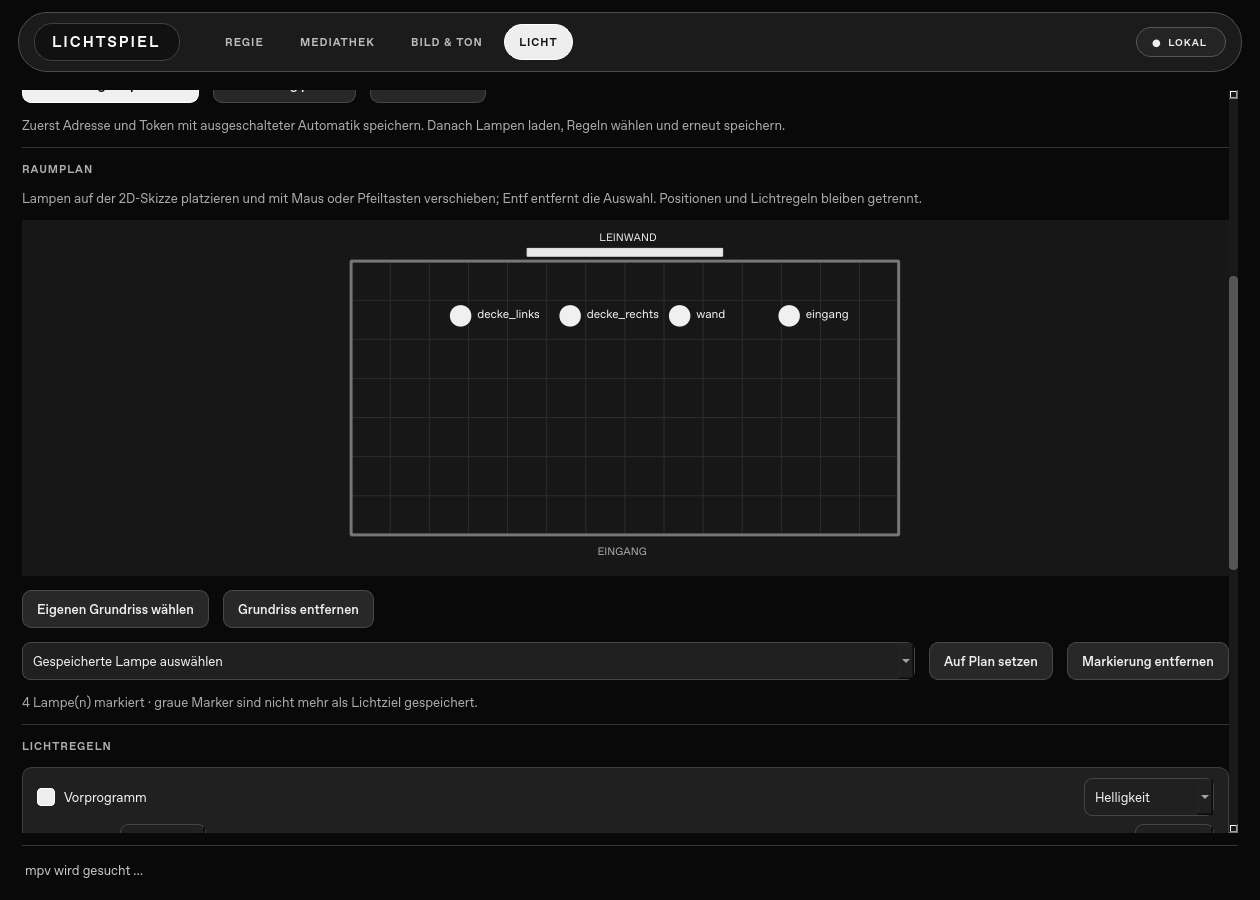
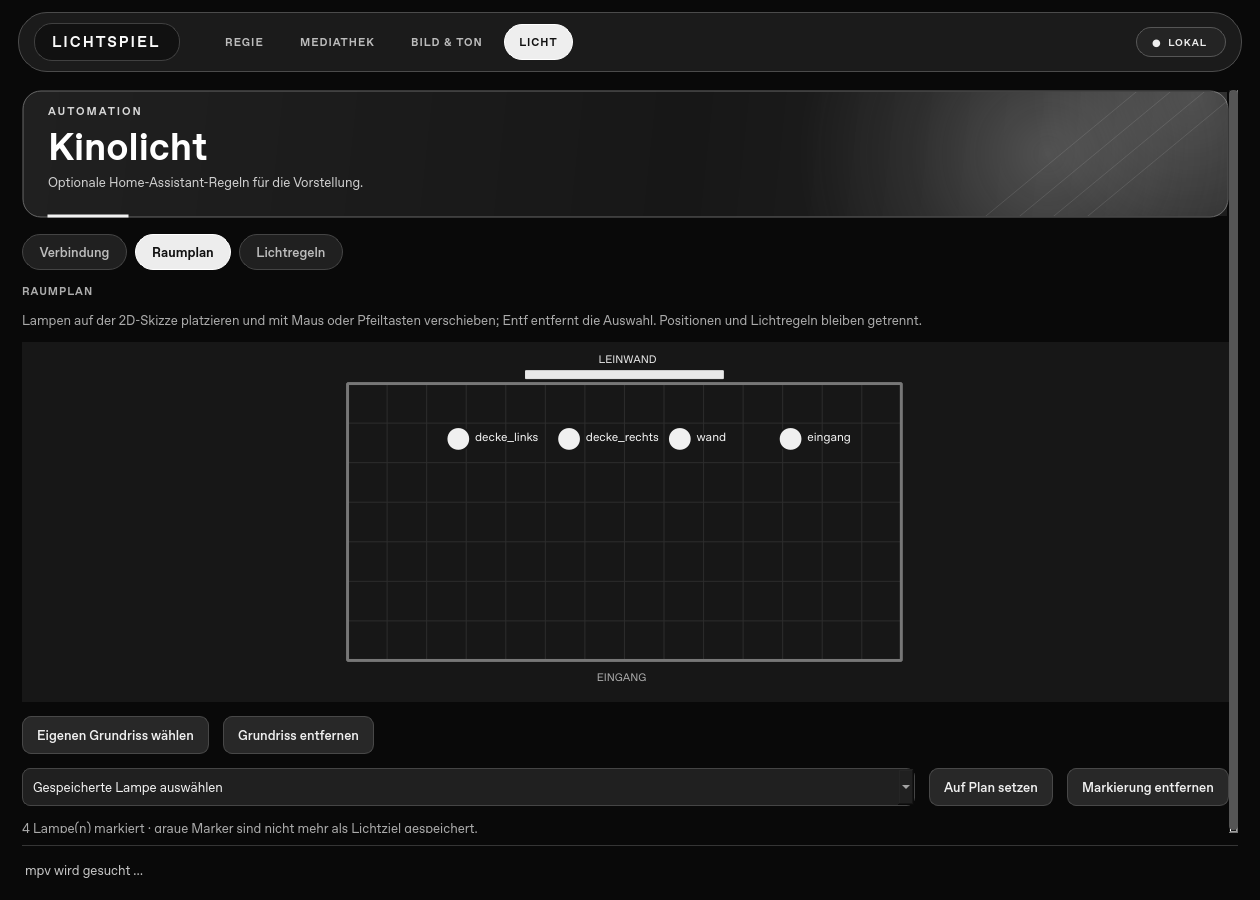
Organize light controls and compact small-window layout

diff --git a/native/lichtspiel/window.py b/native/lichtspiel/window.py
@@ -253,6 +253,7 @@ class MainWindow(QMainWindow):
         main.setContentsMargins(22, 18, 22, 18)
         main.setSpacing(12)
         self.pages = QStackedWidget()
+        self.page_headers = []
         main.addWidget(self.pages, 1)
         main.addWidget(rule())
         self.status = label("Bereit", "status")
@@ -263,6 +264,7 @@ class MainWindow(QMainWindow):
         self._build_library()
         self._build_setup()
         self._build_lighting()
+        self._update_compact_layout()
 
     def _page(
         self, eyebrow: str, title: str, description: str
@@ -273,7 +275,9 @@ class MainWindow(QMainWindow):
         column.setContentsMargins(0, 0, 0, 0)
         column.setSpacing(14)
         column.setAlignment(Qt.AlignTop)
-        column.addWidget(AtmosphereHeader(eyebrow, title, description))
+        header = AtmosphereHeader(eyebrow, title, description)
+        self.page_headers.append(header)
+        column.addWidget(header)
         column.addSpacing(2)
         scroller = QScrollArea()
         scroller.setWidgetResizable(True)
@@ -281,6 +285,16 @@ class MainWindow(QMainWindow):
         scroller.setWidget(page)
         self.pages.addWidget(scroller)
         return page, column
+
+    def resizeEvent(self, event):
+        super().resizeEvent(event)
+        if hasattr(self, "page_headers"):
+            self._update_compact_layout()
+
+    def _update_compact_layout(self):
+        compact = self.height() < 760
+        for header in self.page_headers:
+            header.set_compact(compact)
 
     def _build_show(self):
         _, column = self._page(
@@ -576,11 +590,40 @@ class MainWindow(QMainWindow):
         column.addStretch()
 
     def _build_lighting(self):
-        _, column = self._page(
+        _, page_column = self._page(
             "Automation",
             "Kinolicht",
             "Optionale Home-Assistant-Regeln für die Vorstellung.",
         )
+        section_nav = QHBoxLayout()
+        section_nav.setSpacing(8)
+        self.light_section_buttons = []
+        self.light_section_widgets = []
+        for index, title in enumerate(("Verbindung", "Raumplan", "Lichtregeln")):
+            control = button(
+                title,
+                lambda _checked=False, section=index: self._set_light_section(section),
+                "subnav",
+            )
+            control.setCheckable(True)
+            section_nav.addWidget(control)
+            self.light_section_buttons.append(control)
+        section_nav.addStretch()
+        page_column.addLayout(section_nav)
+
+        def section_layout() -> QVBoxLayout:
+            section = QWidget()
+            section.setObjectName("lightSection")
+            section.setSizePolicy(QSizePolicy.Preferred, QSizePolicy.Maximum)
+            content = QVBoxLayout(section)
+            content.setContentsMargins(0, 0, 0, 0)
+            content.setSpacing(14)
+            content.setAlignment(Qt.AlignTop)
+            page_column.addWidget(section)
+            self.light_section_widgets.append(section)
+            return content
+
+        column = section_layout()
         self.light_enabled = QCheckBox("Automatische Lichtsteuerung aktivieren")
         column.addWidget(self.light_enabled)
         column.addWidget(label("HOME ASSISTANT", "eyebrow"))
@@ -620,7 +663,7 @@ class MainWindow(QMainWindow):
                 "hint",
             )
         )
-        column.addWidget(rule())
+        column = section_layout()
         column.addWidget(label("RAUMPLAN", "eyebrow"))
         column.addWidget(
             label(
@@ -654,7 +697,7 @@ class MainWindow(QMainWindow):
         column.addLayout(plan_row)
         self.room_plan_status = label("Noch keine Lampen markiert.", "hint")
         column.addWidget(self.room_plan_status)
-        column.addWidget(rule())
+        column = section_layout()
         column.addWidget(label("LICHTREGELN", "eyebrow"))
         self.light_rules = {}
         for event in EVENTS:
@@ -722,6 +765,18 @@ class MainWindow(QMainWindow):
         column.addWidget(self.light_preview)
         self.light_event.currentIndexChanged.connect(self._update_light_preview)
         column.addStretch()
+        self._set_light_section(0)
+
+    def _set_light_section(self, index: int):
+        for number, (control, section) in enumerate(
+            zip(self.light_section_buttons, self.light_section_widgets, strict=True)
+        ):
+            selected = number == index
+            control.setChecked(selected)
+            section.setVisible(selected)
+        if self.pages.count() > 3:
+            scroller = self.pages.widget(3)
+            scroller.verticalScrollBar().setValue(0)
 
     def _sync_rule_inputs(self, event: str):
         _enabled, mode, brightness_label, brightness, _transition, scene = (

diff --git a/native/tests/test_native.py b/native/tests/test_native.py
@@ -101,10 +101,49 @@ class NativeWindowTests(unittest.TestCase):
             self.assertIsInstance(library_scroller, QScrollArea)
             self.assertEqual(library_scroller.verticalScrollBar().maximum(), 0)
             window._set_page(3)
+            window._set_light_section(2)
             self.app.processEvents()
             self.assertGreater(
                 window.pages.currentWidget().verticalScrollBar().maximum(), 0
             )
+            window.close()
+
+    def test_lighting_sections_keep_plan_and_rules_one_click_away(self):
+        with mock.patch(
+            "native.lichtspiel.window.load_project", return_value=empty_project()
+        ):
+            window = MainWindow()
+            window.resize(1260, 900)
+            window.show()
+            window._set_page(3)
+            window.light_section_buttons[1].click()
+            self.app.processEvents()
+            self.assertTrue(window.room_plan.isVisible())
+            self.assertFalse(window.light_url.isVisible())
+            self.assertTrue(window.light_section_buttons[1].isChecked())
+            window.light_section_buttons[2].click()
+            self.app.processEvents()
+            self.assertFalse(window.room_plan.isVisible())
+            self.assertTrue(next(iter(window.light_rules.values()))[0].isVisible())
+            window.close()
+
+    def test_small_window_compacts_heading_and_keeps_plan_accessible(self):
+        with mock.patch(
+            "native.lichtspiel.window.load_project", return_value=empty_project()
+        ):
+            window = MainWindow()
+            window.resize(900, 640)
+            window.show()
+            window._set_page(3)
+            window._set_light_section(1)
+            self.app.processEvents()
+            self.assertEqual(window.page_headers[3].height(), 82)
+            self.assertFalse(window.page_headers[3].description_label.isVisible())
+            self.assertTrue(window.room_plan.isVisible())
+            window.resize(1260, 900)
+            self.app.processEvents()
+            self.assertEqual(window.page_headers[3].height(), 128)
+            self.assertTrue(window.page_headers[3].description_label.isVisible())
             window.close()
 
     def test_live_controls_show_clip_and_show_progress(self):

diff --git a/native/lichtspiel/widgets.py b/native/lichtspiel/widgets.py
@@ -19,9 +19,9 @@ class AtmosphereHeader(QWidget):
         super().__init__()
         self.setObjectName("atmosphereHeader")
         self.setFixedHeight(128)
-        column = QVBoxLayout(self)
-        column.setContentsMargins(26, 14, 26, 14)
-        column.setSpacing(5)
+        self.column = QVBoxLayout(self)
+        self.column.setContentsMargins(26, 14, 26, 14)
+        self.column.setSpacing(5)
         for copy, kind in (
             (eyebrow.upper(), "heroEyebrow"),
             (title, "heroTitle"),
@@ -31,8 +31,18 @@ class AtmosphereHeader(QWidget):
             item.setObjectName(kind)
             item.setWordWrap(True)
             item.setSizePolicy(QSizePolicy.Preferred, QSizePolicy.Maximum)
-            column.addWidget(item)
-        column.addStretch()
+            self.column.addWidget(item)
+            if kind == "heroDescription":
+                self.description_label = item
+        self.column.addStretch()
+
+    def set_compact(self, compact: bool):
+        self.setFixedHeight(82 if compact else 128)
+        if compact:
+            self.column.setContentsMargins(20, 8, 20, 8)
+        else:
+            self.column.setContentsMargins(26, 14, 26, 14)
+        self.description_label.setVisible(not compact)
 
     def paintEvent(self, _event):
         painter = QPainter(self)

diff --git a/native/lichtspiel/style.py b/native/lichtspiel/style.py
@@ -35,6 +35,9 @@ QPushButton#previewExpand:hover { color: #ffffff; background: #393939; }
 QPushButton#nav { background: transparent; border: 1px solid transparent; border-radius: 19px; text-align: center; padding: 8px 14px; color: #bcbcbc; font-size: 11px; font-weight: 750; letter-spacing: 1px; }
 QPushButton#nav:hover { background: #303030; color: #ffffff; }
 QPushButton#nav:checked { background: #eeeeee; color: #111111; border: 1px solid #ffffff; border-radius: 18px; }
+QPushButton#subnav { background: #202020; color: #bcbcbc; border: 1px solid #444444; border-radius: 18px; padding: 8px 16px; min-height: 18px; }
+QPushButton#subnav:hover { background: #303030; color: #ffffff; }
+QPushButton#subnav:checked { background: #ededed; color: #111111; border: 1px solid #ffffff; border-radius: 18px; font-weight: 700; }
 QLineEdit, QComboBox, QDateTimeEdit, QSpinBox { background: #202020; color: #f1f1f1; border: 1px solid #454545; border-radius: 8px; padding: 8px 10px; min-height: 20px; selection-background-color: #6e6e6e; }
 QLineEdit:focus, QComboBox:focus, QDateTimeEdit:focus, QSpinBox:focus, QListWidget:focus { border: 1px solid #d9d9d9; }
 QComboBox QAbstractItemView { background: #292929; color: #f1f1f1; selection-background-color: #575757; }

diff --git a/design-qa.md b/design-qa.md
@@ -7,10 +7,10 @@ Die aktuellen Aufnahmen zeigen die **Qt-Desktop-App** im monochromen Design. Sie
 | Regie           | [Leinwandvorschau und Ablauf](docs/assets/native-preview.png)            | Vorschau, Clip- und Gesamtfortschritt, fest sichtbare Vorführtasten |
 | Mediathek       | [Leerer Zustand](docs/assets/native-library.png)                         | Medienimport sichtbar; Aktionen ohne Auswahl deaktiviert            |
 | Bild & Ton      | [Einrichtung](docs/assets/native-setup.png)                              | Player-, Bildschirm-, Ton- und Vorschaueinstellungen                |
-| Licht           | [Raumplan](docs/assets/native-room-plan.png)                             | Vier Marker, eigener Scrollbereich und Planbedienung                |
-| Lichtregeln     | [Regeln](docs/assets/native-lighting.png)                                | Ereignisse, Helligkeit und Übergänge                                |
+| Licht           | [Raumplan](docs/assets/native-room-plan.png)                             | Vier Marker und Planbedienung direkt nach einem Wechsel             |
+| Lichtregeln     | [Regeln](docs/assets/native-lighting.png)                                | Ereignisse, Helligkeit und Übergänge in einem eigenen Bereich       |
 | Kleines Fenster | [Live-Regie auf der Lichtseite](docs/assets/native-live-light-small.png) | Vorführtasten bleiben beim Seitenwechsel erreichbar                 |
 
 Die Navigation ist in einem schwebenden Balken angeordnet. Weiß markiert die aktuelle Seite und die wichtigste Aktion; die übrigen Flächen bleiben in Schwarz und Grau. Die Lichttiefe im Seitenkopf ist statisch und läuft nur in der Bedienoberfläche. Die Leinwandausgabe bleibt ein getrennter mpv-Prozess.
 
-Bei 1260 × 900 Pixeln wurden alle vier Hauptansichten visuell geprüft. Bei 900 × 640 Pixeln bleiben die Vorführtasten sichtbar; der Seiteninhalt scrollt separat. Ein Regressionstest prüft, dass die kurze Mediathek keine Scrollleiste von der längeren Lichtseite erbt. Die nativen Tests und die macOS-/Windows-Paketjobs laufen in der CI. Farb- und Kontrastwirkung auf echten Monitoren sowie die Bedienung mit Screenreadern brauchen weitere praktische Prüfung.
+Bei 1260 × 900 Pixeln wurden alle vier Hauptansichten visuell geprüft. Die Lichtseite trennt Verbindung, Raumplan und Regeln; der Raumplan ist ohne langes Scrollen erreichbar. Bei 900 × 640 Pixeln wird der Seitenkopf kompakter und die Vorführtasten bleiben sichtbar. Regressionstests prüfen den Seitenwechsel, den kompakten Kopf und getrennte Scrollbereiche. Die nativen Tests und die macOS-/Windows-Paketjobs laufen in der CI. Farb- und Kontrastwirkung auf echten Monitoren sowie die Bedienung mit Screenreadern brauchen weitere praktische Prüfung.

diff --git a/native/README.md b/native/README.md
@@ -40,7 +40,7 @@ Bei einer Unterbrechung merkt sich die Qt-App den Ablauf, den aktuellen Clip und
 
 ![Wiederaufnahme in der Qt-Regie bei kleinem Fenster](../docs/assets/native-recovery.png)
 
-Speichere auf der Lichtseite zuerst Adresse und Token mit ausgeschalteter Automatik. Danach kannst du **Lampen laden** und Ziele auswählen. Bis zu 20 `light.*`-Entitäten oder Lichtgruppen lassen sich gemeinsam dimmen. Jede Regel wählt entweder Helligkeit und Übergangszeit oder eine Home-Assistant-Szene; Szenen eignen sich für Farben und mehrere Räume. Die Schwarzbild-Regel ist standardmäßig **aus**. **Lampen laden** und **Verbindung prüfen** lesen nur Daten. Geänderte Regeln müssen vor einem Test gespeichert werden. Wiederholte Clips derselben Vorprogramm-Kategorie senden keinen doppelten Befehl; ausstehende ältere Automatikbefehle werden bei schnellen Wechseln verworfen. Fehler erscheinen ohne modales Fenster und stoppen den Film nicht.
+Auf der Lichtseite wählst du direkt zwischen **Verbindung**, **Raumplan** und **Lichtregeln**. Speichere unter Verbindung zuerst Adresse und Token mit ausgeschalteter Automatik. Danach kannst du **Lampen laden** und Ziele auswählen. Bis zu 20 `light.*`-Entitäten oder Lichtgruppen lassen sich gemeinsam dimmen. Jede Regel wählt entweder Helligkeit und Übergangszeit oder eine Home-Assistant-Szene; Szenen eignen sich für Farben und mehrere Räume. Die Schwarzbild-Regel ist standardmäßig **aus**. **Lampen laden** und **Verbindung prüfen** lesen nur Daten. Geänderte Regeln müssen vor einem Test gespeichert werden. Wiederholte Clips derselben Vorprogramm-Kategorie senden keinen doppelten Befehl; ausstehende ältere Automatikbefehle werden bei schnellen Wechseln verworfen. Fehler erscheinen ohne modales Fenster und stoppen den Film nicht.
 
 Während der Vorstellung bleibt die Regie auch beim Wechsel zur Licht- oder Einrichtungsseite unten erreichbar. Der obere Seiteninhalt scrollt in kleinen Fenstern unabhängig davon. Nach Stopp oder Ende erscheint die Regie wieder nur auf der Vorstellungsseite.
 

diff --git a/docs/home-assistant.md b/docs/home-assistant.md
@@ -8,10 +8,10 @@ Lichtspiel steuert über Home Assistant Kinolicht. Die bisherige Electron-App ve
 
 1. Richte deine Lampen in Home Assistant ein. Eine gemeinsam zu steuernde Gruppe muss dort als `light.*`-Entität verfügbar sein.
 2. Erstelle in deinem Home-Assistant-Profil ein **langlebiges Zugriffstoken**.
-3. Öffne in Lichtspiel **Lichtsteuerung** beziehungsweise in der Qt-App **Licht**. Lass die Automatik zunächst ausgeschaltet.
+3. Öffne in der Qt-App **Licht → Verbindung**. Lass die Automatik zunächst ausgeschaltet.
 4. Trage die Basisadresse ein, zum Beispiel `http://homeassistant.local:8123`, und füge den Token ein. Speichere die Verbindung.
 5. Klicke auf **Verbindung prüfen**. Der Test liest die erreichbaren Licht-Entitäten und Szenen, verändert aber keine Lampe. In der Qt-App müssen Änderungen vor dem Test gespeichert sein.
-6. Wähle die Lampe oder Lichtgruppe aus und passe die Regeln an.
+6. Wähle die Lampe oder Lichtgruppe aus. Unter **Raumplan** kannst du sie auf einer 2D-Skizze markieren; unter **Lichtregeln** legst du ihre Aktionen fest.
 7. Aktiviere bei Bedarf **Automatisch steuern** und speichere erneut.
 
 Die Adresse darf keine Zugangsdaten, `/api`-Erweiterung, Suchparameter oder Fragmente enthalten. Verwende eine direkt erreichbare Adresse: HTTP-Weiterleitungen werden nicht verfolgt.
